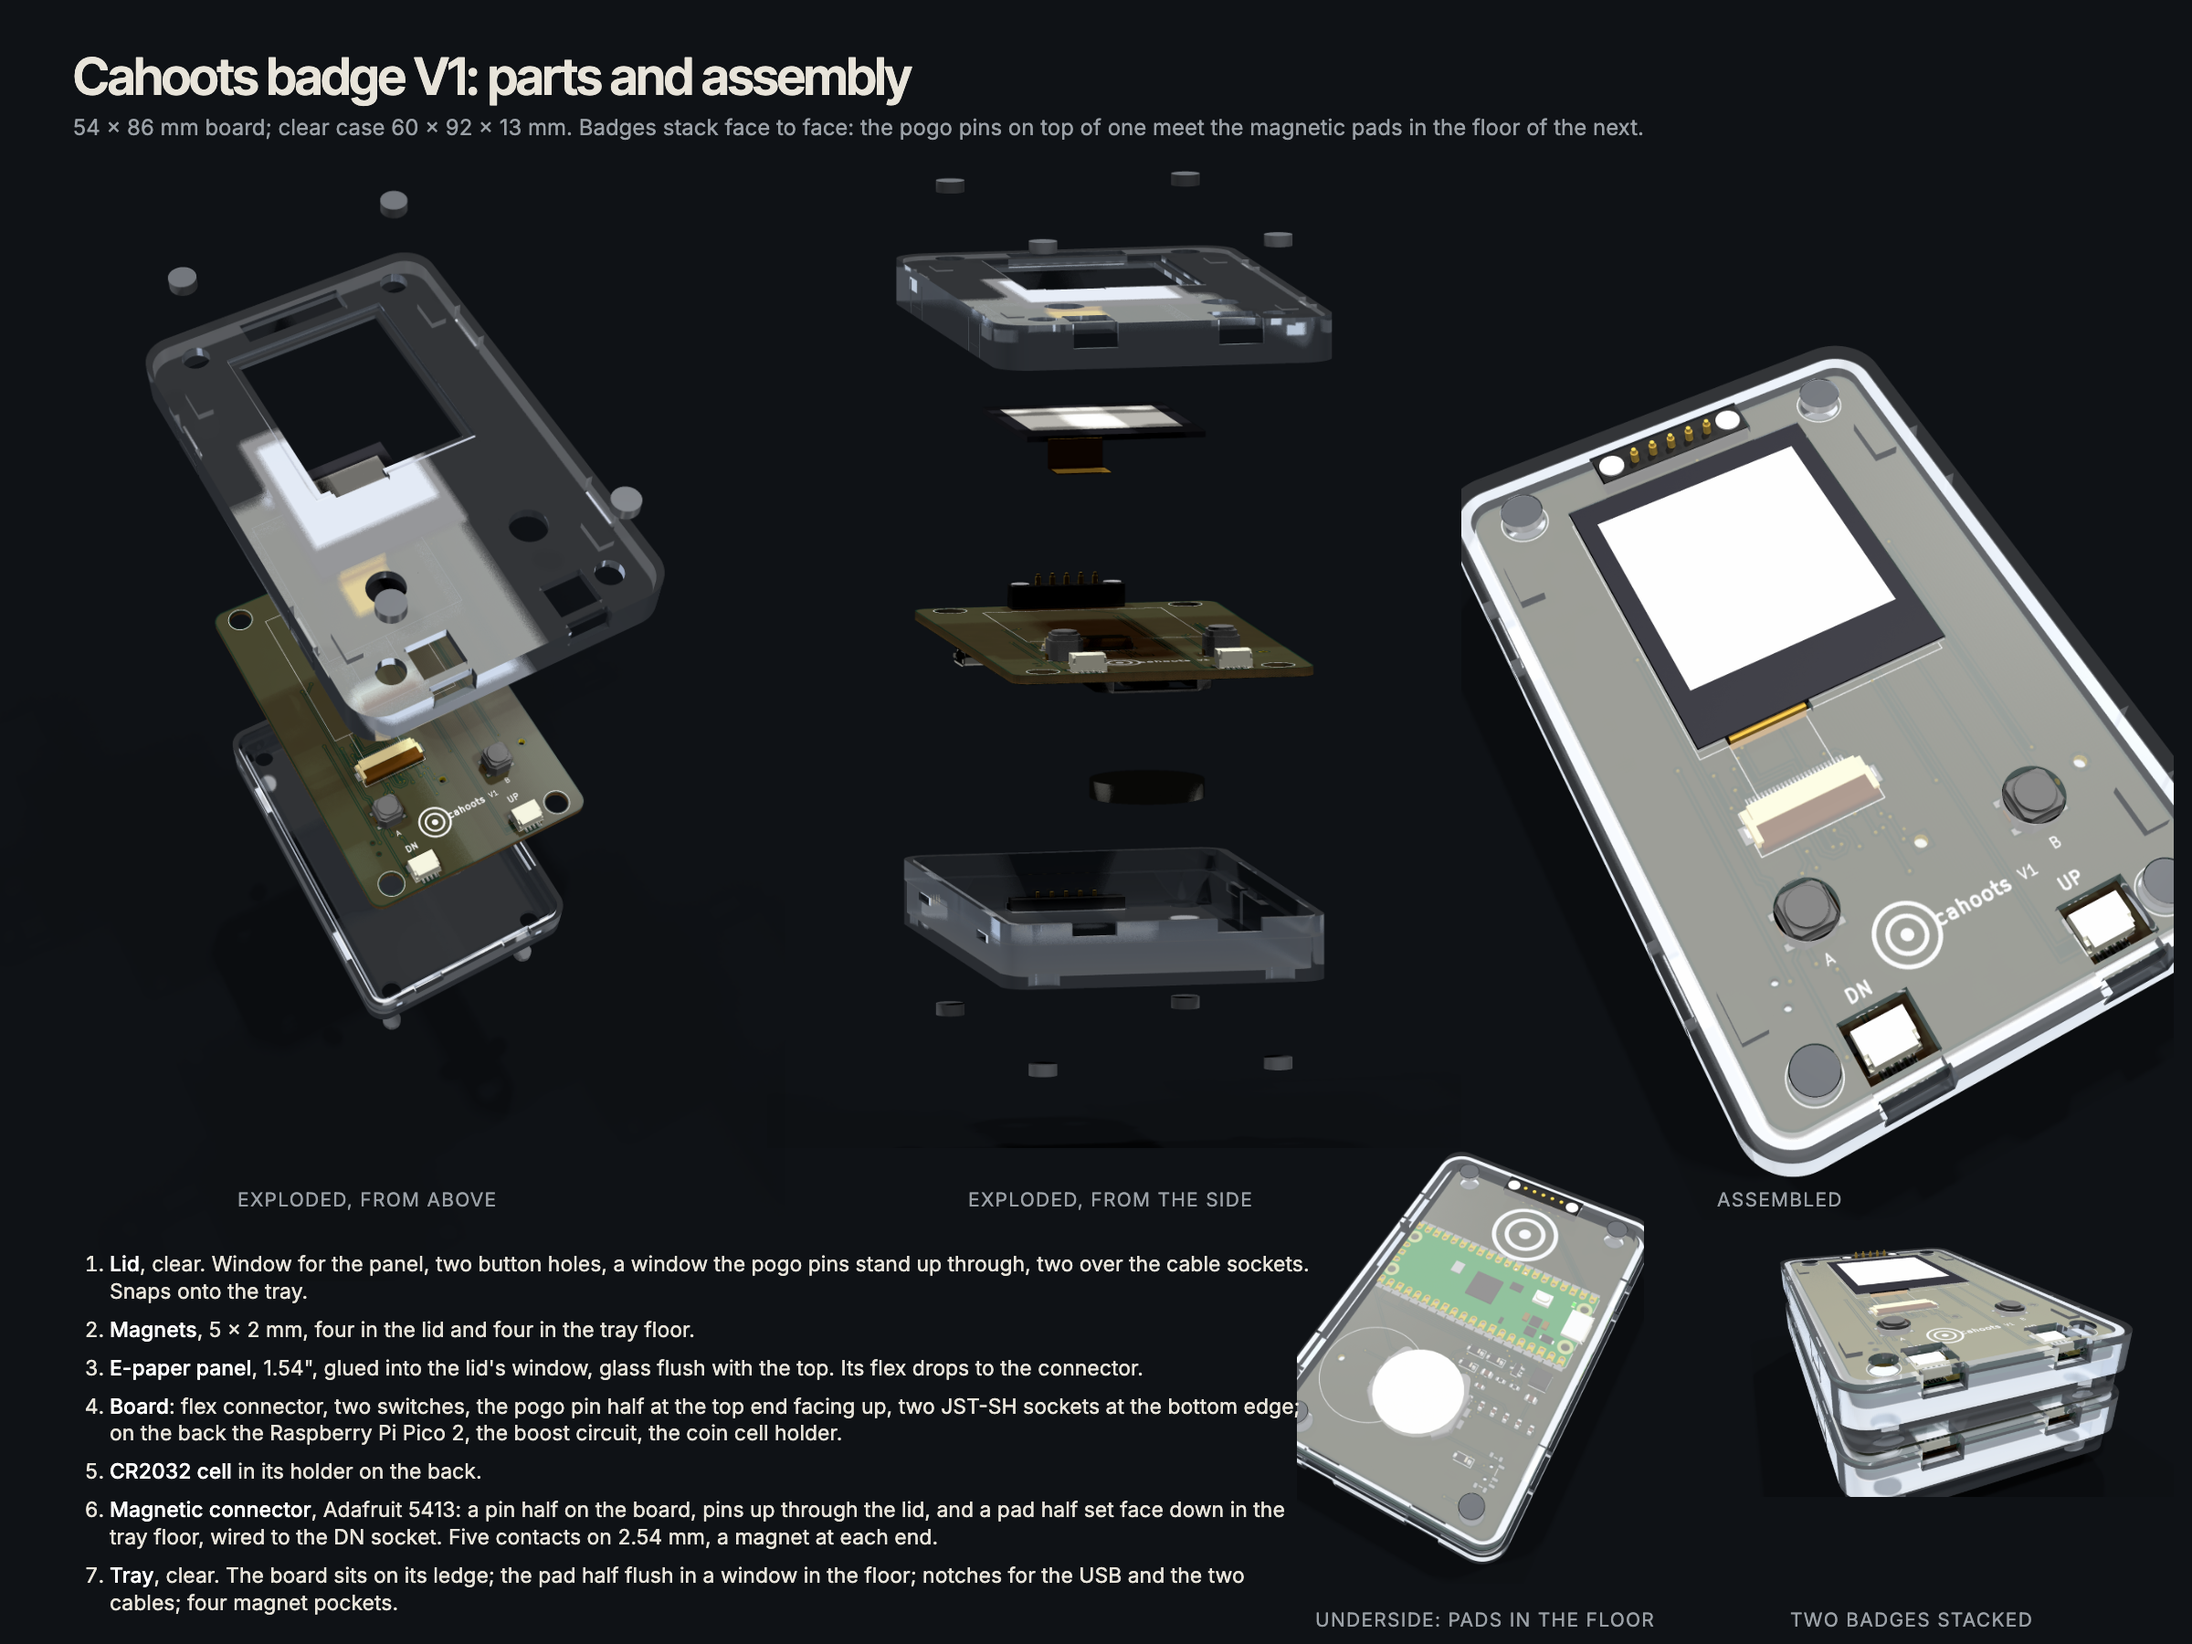
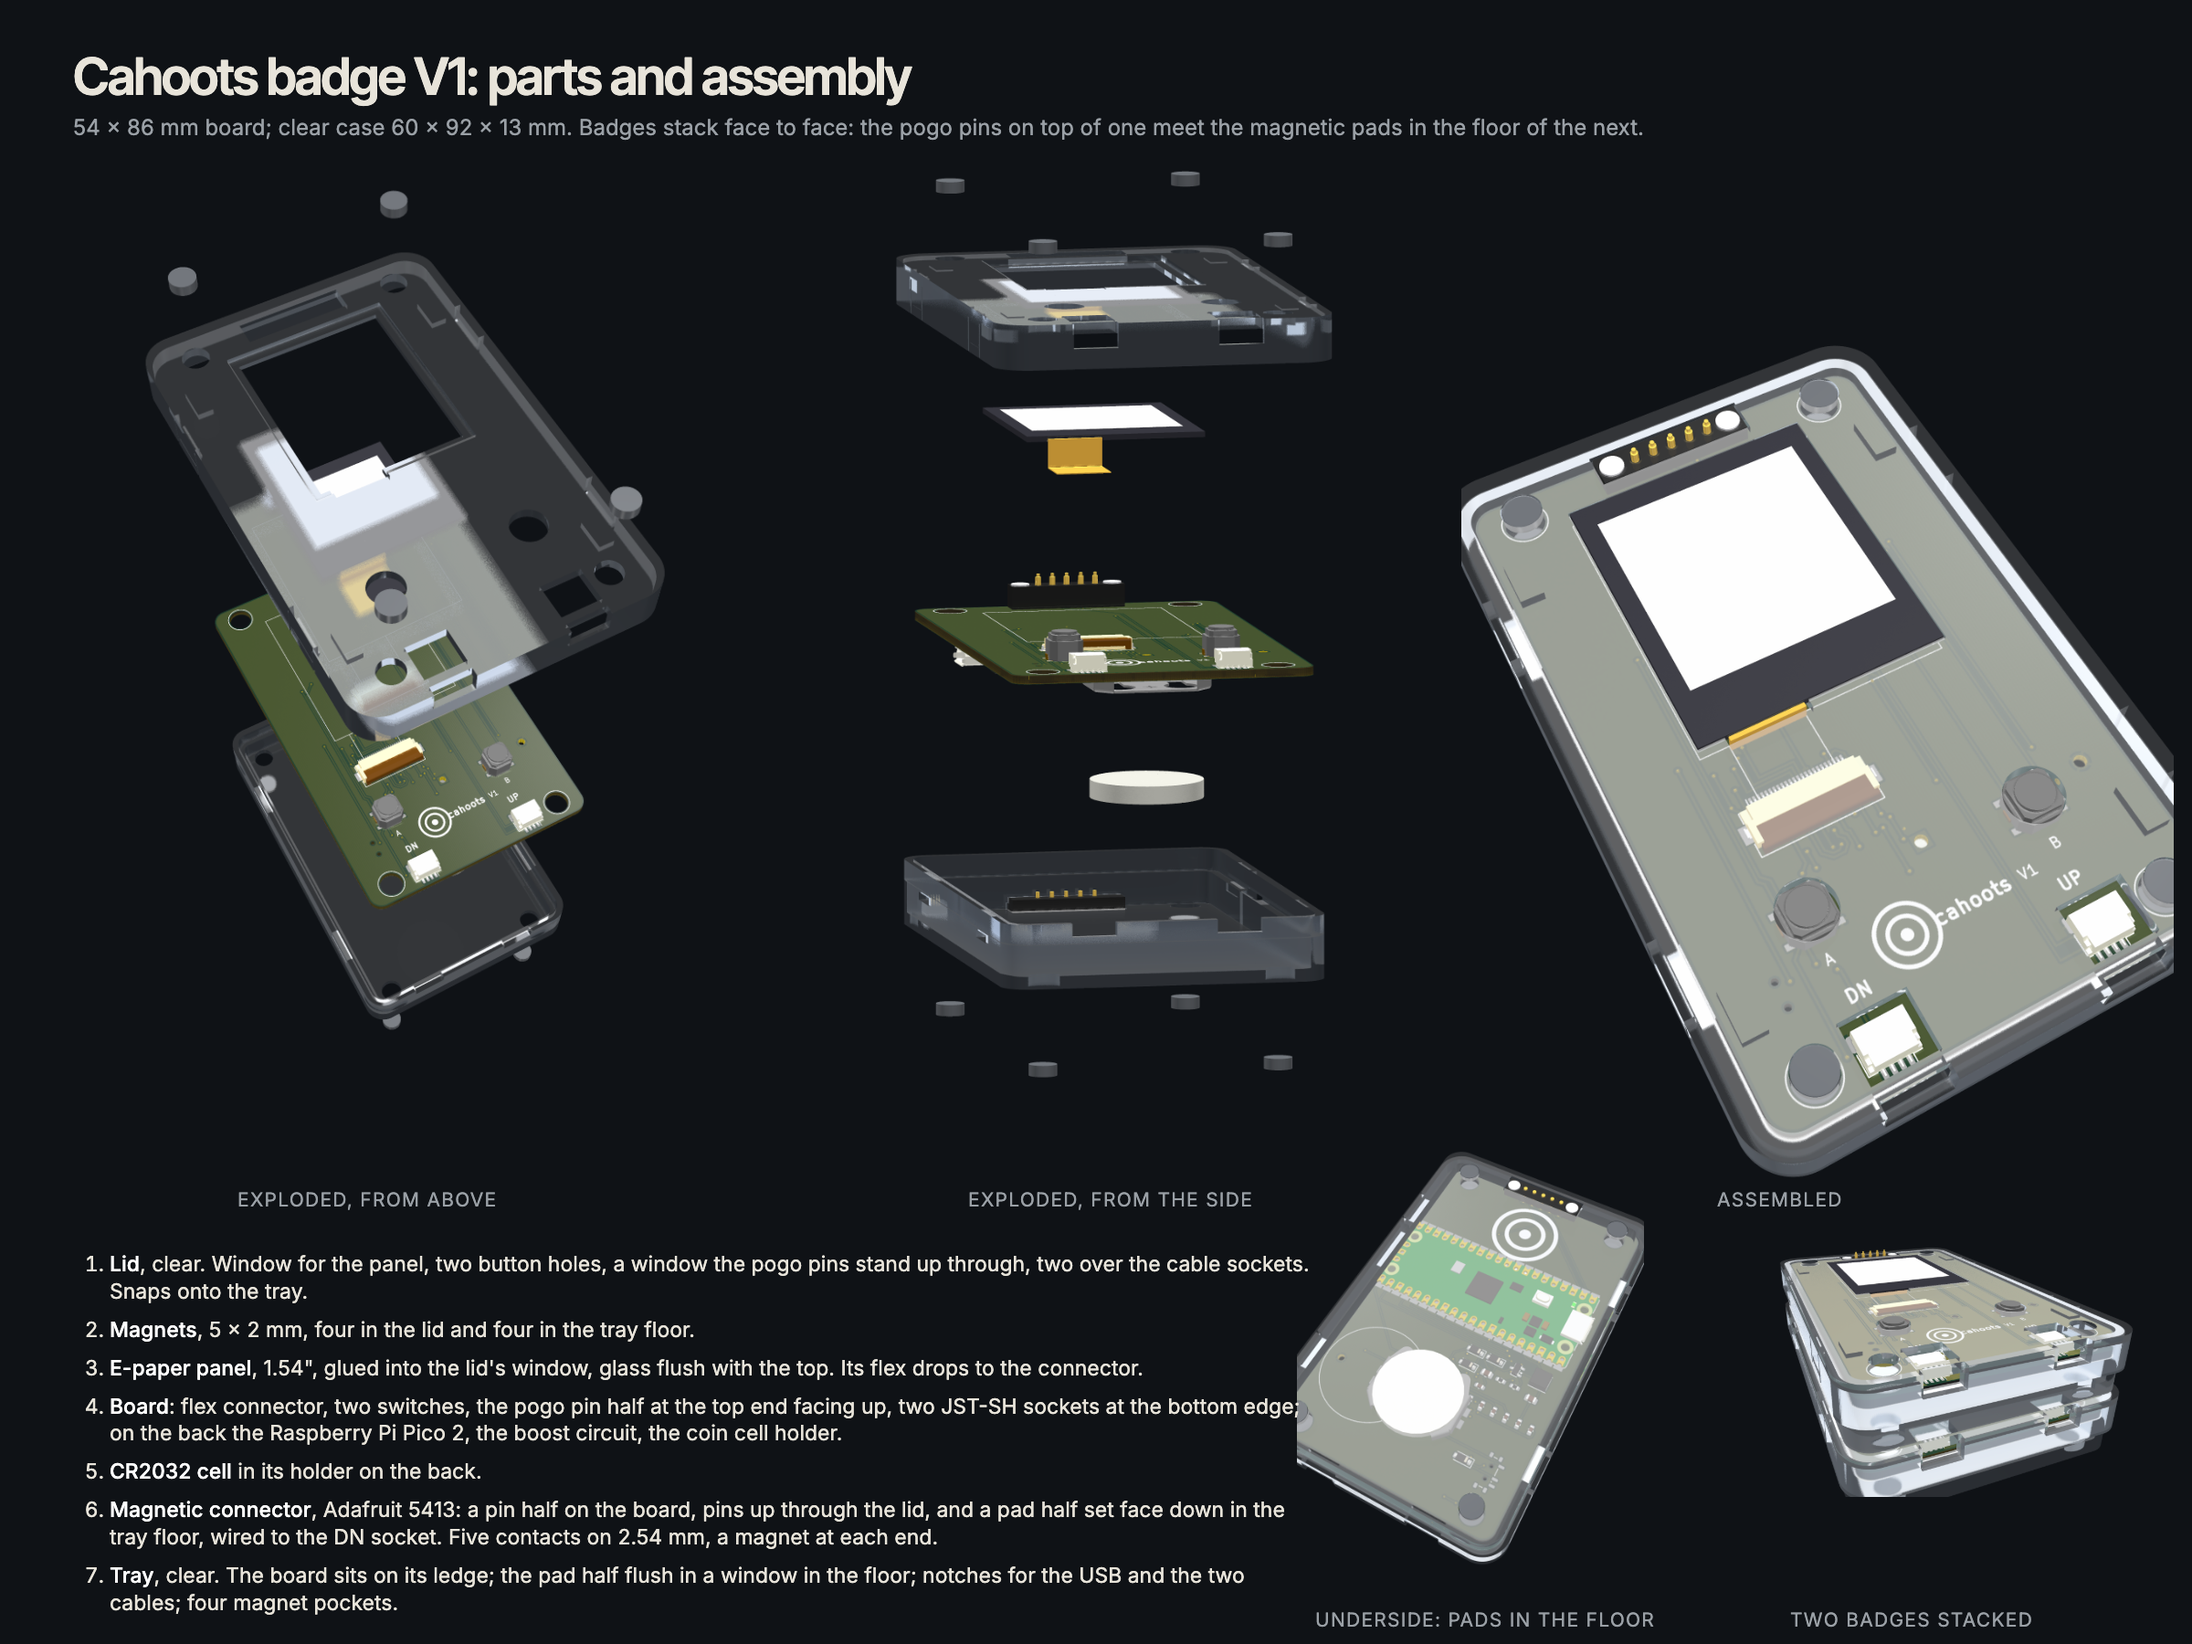
V1 assembly sheet: no floor or shadows under the exploded parts

diff --git a/hardware/v1/explode.py b/hardware/v1/explode.py
@@ -1,5 +1,7 @@
 """assembly.png: the badge exploded into its parts beside the assembled badge, for a reader or
-an image model to see what goes where. Run with KiCad's Python; needs the repo's video/ node_modules."""
+an image model to see what goes where. Run with KiCad's Python; needs the repo's video/ node_modules.
+Renders use KiCad's "user" quality, so ~/Library/Preferences/kicad/10.0/3d_viewer.json should have the raytracer on with
+raytrace_shadows and raytrace_backfloor off: no shadows under floating parts."""
 import os
 import subprocess
 import tempfile
@@ -57,7 +59,7 @@ def variant(name, lift):
     out = os.path.join(tempfile.gettempdir(), f"cahoots-{name}.png")
     rot, zoom, persp, pivot, (w, h), side_ = CAMERA[name]
     subprocess.run([CLI, "pcb", "render", "--side", side_] + (["--perspective"] if persp else []) + (["--pivot", pivot] if pivot else [])
-                   + ["--rotate", rot, "--zoom", zoom, "--quality", "high", "--width", str(w), "--height", str(h), "--background", "transparent", "--floor", "-o", out, path],
+                   + ["--rotate", rot, "--zoom", zoom, "--quality", "user", "--width", str(w), "--height", str(h), "--background", "transparent", "-o", out, path],
                    check=True, capture_output=True)
     os.remove(path)
     return out
